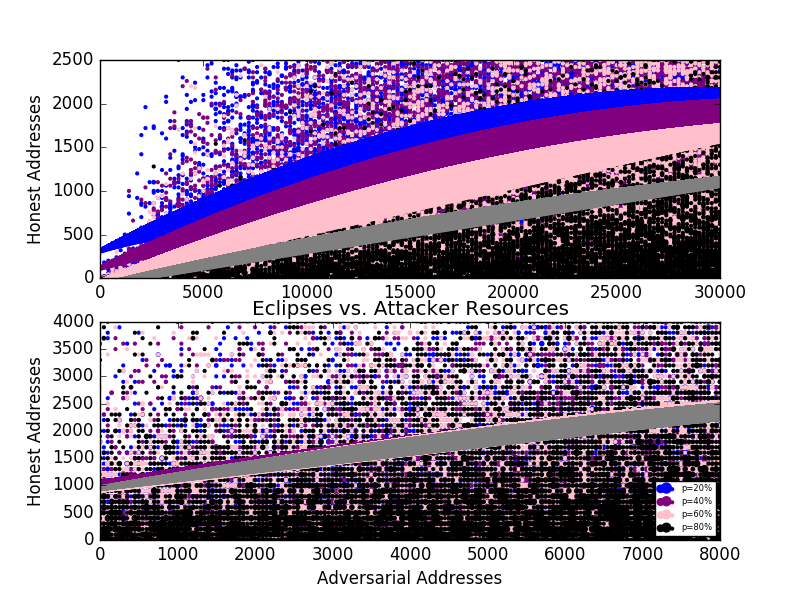
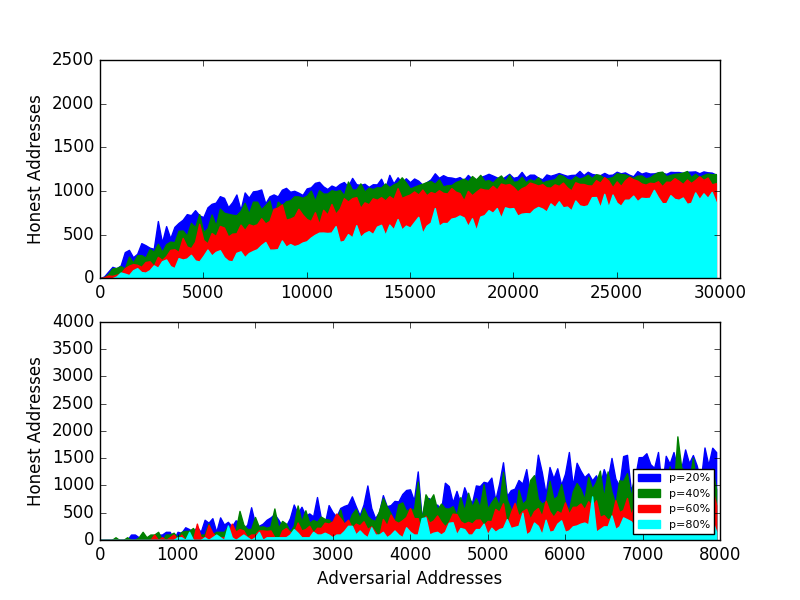
final paper

diff --git a/testeviction/figure8.py b/testeviction/figure8.py
@@ -3,13 +3,16 @@ Monte-Carlo simulation:
 eclipse probability for test-before-evict.
 """
 
+import collections
 import numpy as np
 import random
 from random import randrange
 import math
 import matplotlib.pyplot as plt
+import itertools
 
 random.seed(420)  # seed the random number generator to something... **sigh**.
+
 
 def triedprob(rho, omega):
     """Probability an IP is seeded from the tried table.
@@ -21,40 +24,65 @@ def triedprob(rho, omega):
     return rho_freq / (1 + omega + rho_freq)
 
 
-def sampleips(a, h, n=None, tablesize=4096):
+def sampleips(a, h, p, n=8, tablesize=4096):
     """Samples the IP to place in a given table cell.
 
     :param a: (int) attacker IPs
     :param h: (int) honest IPs
     :param tablesize: (int) the size of the tried table
-    :return: yields a stream of (bucket, slot) => IP
     """
+    a = int(a * (1 - p))
     if a + h == 0:
         return
     if n is None:
         n = max(a, h)
     for _ in range(n):
-        p_attacker = float(a + tablesize) / (a + h + tablesize)
         r = random.random()
-        if r <= p_attacker:
-            bucket = randrange(64)
-            slot = randrange(64)
-            yield (bucket, slot), attacker
-            a = max(0, a - 1)
+        if triedprob(float(a + h) / tablesize, _):
+            p_attacker = float(a) / (.00001 + h)
+            if r <= p_attacker:
+                yield _, attacker
+            else:
+                yield _, honest
         else:
-            bucket = randrange(64)
-            slot = randrange(64)
-            yield (bucket,slot), honest
+            yield _, attacker
             h = max(0, h - 1)
+            a += 1
 
 
-def testsampleips(a, h, p, n=None, tablesize=4096):
+# def testsampleips(a, h, p, n=None, tablesize=4096):
+#     """Samples the IP to place in a given table cell.
+#
+#     :param a: (int) attacker IPs
+#     :param h: (int) honest IPs
+#     :param tablesize: (int) the size of the tried table
+#     :return: yields a stream of (bucket, slot) => IP
+#     """
+#     a = round(a * (1 - p))
+#     if a + h == 0:
+#         return
+#     if n is None:
+#         n = max(a, h)
+#     for _ in range(n):
+#         p_attacker = float(a) / (a + h)
+#         r = random.random()
+#         if r <= p_attacker:
+#             bucket = randrange(64)
+#             slot = randrange(64)
+#             yield (bucket, slot), attacker
+#             # a = max(0, a - 1)
+#         else:
+#             bucket = randrange(64)
+#             slot = randrange(64)
+#             yield (bucket,slot), honest
+#             # h = max(0, h - 1)
+
+def testsampleips(a, h, p, n=8, tablesize=4096):
     """Samples the IP to place in a given table cell.
 
     :param a: (int) attacker IPs
     :param h: (int) honest IPs
     :param tablesize: (int) the size of the tried table
-    :return: yields a stream of (bucket, slot) => IP
     """
     a = round(a * (1 - p))
     if a + h == 0:
@@ -62,32 +90,33 @@ def testsampleips(a, h, p, n=None, tablesize=4096):
     if n is None:
         n = max(a, h)
     for _ in range(n):
-        p_attacker = float(a) / (a + h)
         r = random.random()
-        if r <= p_attacker:
-            bucket = randrange(64)
-            slot = randrange(64)
-            yield (bucket, slot), attacker
-            a = max(0, a - 1)
+        if triedprob(float(a + h) / tablesize, _):
+            p_attacker = float(a) / (a + h)
+            if r <= p_attacker:
+                yield _, attacker
+            else:
+                yield _, honest
         else:
-            bucket = randrange(64)
-            slot = randrange(64)
-            yield (bucket,slot), honest
-            h = max(0, h - 1)
+            yield _, attacker
 
 
 def jointsample(n, *params):
-    for _ in range(n):
-        yield tuple(map(lambda e: random.choice(e), params))
+    p = tuple(itertools.product(*params))
+    for i, e in enumerate(p):
+        yield e
+        if i >= n:
+            return
+    for _ in range(n - len(p)):
+        yield random.choice(p)
 
 
 def sizemap(sizes, base=3):
     return tuple(map(lambda s: min(100, max(4, base * s)), sizes))
 
 
-N = 400000
-colors = ('blue', 'purple', 'pink', 'black')
-regcolors = ('blue', 'purple', 'pink', 'gray')
+N = 300000
+colors = ('blue', 'green', 'red', 'cyan')
 P = (.2, .4, .6, .8)  # churn rate
 
 honest = 0
@@ -101,8 +130,8 @@ ax2 = fig.add_subplot(211)
 # start sim 1
 a_step = 200
 h_step = 20
-A = [x * a_step for x in range(round(35001 / a_step))]	 # attack IP  [0...30000]
-H = [x * h_step for x in range(round(5000 / h_step))]	 # honest IP  [0...4096]
+A = [x * a_step for x in range(round(30000 / a_step))]	 # attack IP  [0...30000]
+H = [x * h_step for x in range(round(2500 / h_step))]	 # honest IP  [0...4096]
 graph = {}
 
 for (h, p, a) in jointsample(N, H, P, A):
@@ -123,20 +152,14 @@ for (h, p, a) in jointsample(N, H, P, A):
             graph[p][a, h] += 1
 
 # figure 1
-for i, p in enumerate(sorted(graph)):
-    points, size = zip(*graph[p].items())
-    x, y = zip(*points)
-    ax2.scatter(x, y,
-                color=colors[i],
-                sizes=sizemap(size),
-                marker='o')
-
-    z = np.polyfit(x, y, 2)
-    f = np.poly1d(z)
-    ax2.plot(x, f(x),
-             color=regcolors[i],
-             linewidth=4.)
-
+plot_areas = collections.defaultdict(list)
+for i, p in enumerate(P):
+    s = collections.defaultdict(list)
+    for a, h in graph[p]:
+        s[a].append(h)
+    for a in sorted(s):
+        plot_areas[p].append(np.mean(s[a]))
+    ax2.fill_between(A, plot_areas[p], color=colors[i])
 ax2.set_ylabel('Honest Addresses')
 ax2.set_xlim(0, 30000)
 ax2.set_ylim(0, 2500)
@@ -144,14 +167,14 @@ ax2.set_ylim(0, 2500)
 # start sim 2
 a_step = 50
 h_step = 100
-A = [x * a_step for x in range(round(12001 / a_step))]	 # attack IP  [0...8000]
-H = [y * h_step for y in range(round(8001 / h_step))]	 # honest IP  [0...4000]
+A = [x * a_step for x in range(round(8000 / a_step))]	 # attack IP  [0...8000]
+H = [y * h_step for y in range(round(8000 / h_step))]	 # honest IP  [0...4000]
 graph = {}
 
 for (h, p, a) in jointsample(N, H, P, A):
 
     eclipse = True
-    for _, ip in sampleips(a, h, n=8):
+    for _, ip in sampleips(a, h, p, n=8):
         if ip == honest:
             eclipse = False
             break
@@ -166,29 +189,19 @@ for (h, p, a) in jointsample(N, H, P, A):
             graph[p][a, h] += 1
 
 # figure 2
-series = []
-labels = []
-ax1.set_title('Eclipses vs. Attacker Resources')
-for i, p in enumerate(sorted(graph)):
-    points, size = zip(*graph[p].items())
-    x, y = zip(*points)
-    series.append(
-        ax1.scatter(x, y,
-                    color=colors[i],
-                    sizes=sizemap(size),
-                    marker='o'))
-    labels.append('p=%d%%' % int(100 * p))
-    z = np.polyfit(x, y, 2)
-    f = np.poly1d(z)
-    ax1.plot(x, f(x),
-             color=regcolors[i],
-             linewidth=4.)
-ax1.legend(series, labels, loc='lower right', prop={'size': 6})
+plot_areas = collections.defaultdict(list)
+for i, p in enumerate(P):
+    s = collections.defaultdict(list)
+    for a, h in graph[p]:
+        s[a].append(h)
+    for a in sorted(s):
+        plot_areas[p].append(np.mean(s[a]))
+    ax1.fill_between(A, plot_areas[p], color=colors[i], label='p=%d%%' % int(100 * p))
 ax1.set_xlabel('Adversarial Addresses')
 ax1.set_ylabel('Honest Addresses')
 ax1.set_xlim(0, 8000)
 ax1.set_ylim(0, 4000)
-
+ax1.legend(loc='lower right', prop={'size': 8})
 
 # save figure
 fig.savefig('../figures/figure-8.png')
